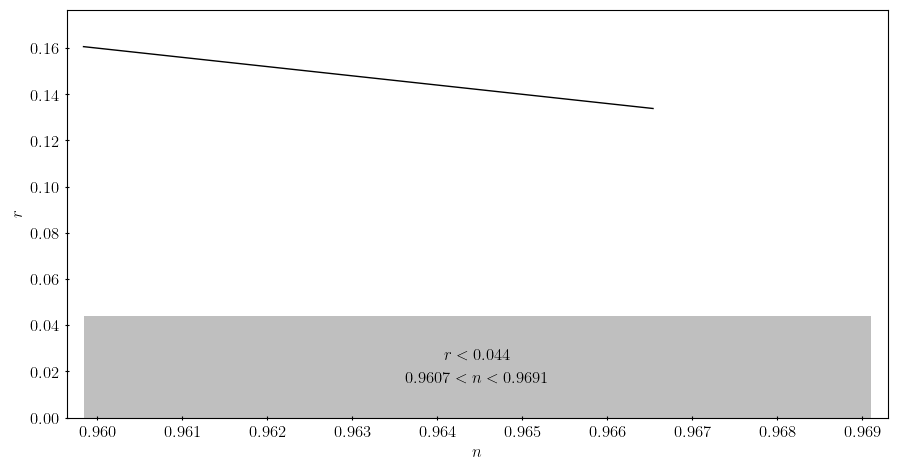
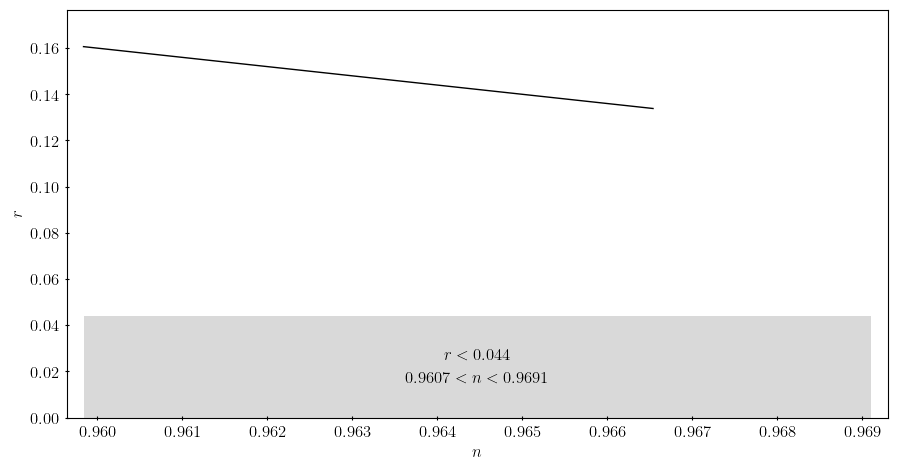
Closing in

Changed region(s): [[0.0935, 0.6553, 0.9978, 0.8936]]

diff --git a/project-3/inflation.py b/project-3/inflation.py
@@ -47,7 +47,13 @@ class InflationModel:
 		self.pot_diff = pot_diff
 
 	def double_time_derivative_scalar_field(self, psi, dpsi, h):
+		'''
+		The EoM for the scalar field, solved for d^2(psi)/dtau^2.
 
+		:param psi:		Scalar field, float or array
+		:param dpsi:	Derivative of scalar field, float or array
+		:param h:		Hubble parameter, float or array
+		'''
 		dv = self.pot_diff(psi, self.psi_i)
 
 		return - 3 * h * dpsi - dv
@@ -214,7 +220,10 @@ class InflationModel:
 
 	def set_epsilon_parameter(self, epsilon, print_tau_end=False):
 		'''
-		Set the function for calculating the SRA parameter epsilon.
+		Set the function for calculating the SRA
+		parameter epsilon. This will also set the
+		end of inflation from when epsilon <= 1
+		for the last time.
 
 		:param epsilon:			Epsilon function, callable
 		:param print_tau_end:	boolean, True/False
@@ -370,6 +379,8 @@ class InflationModel:
 		Plot the tensor-to-scalar ration r as function of
 		the scalar spectral index n. Also, the upper limit
 		for r of 0.044 is included as a shaded region in the plot.
+		For the Starobinsky model, the approximations can also 
+		be included in the plots to compare to the analytical results.
 
 		:param include_approx: boolean, True/False
 		'''
@@ -435,7 +446,7 @@ class InflationModel:
 
 				save_name += 'with_approx_'
 
-		ax.fill_between(x, r_max, alpha=0.25)
+		ax.fill_between(x, r_max, alpha=0.15)
 		ax.text(x_text, 0.025, r'$r<0.044$', ha='center')
 		ax.text(x_text, 0.015, r'$0.9607<n<0.9691$', ha='center')
 		ax.set_xlabel(r'$n$')

diff --git a/project-3/inflation_models.py b/project-3/inflation_models.py
@@ -91,7 +91,7 @@ def staro_eta(psi):
 
 	return eta
 
-
+# Initial field value and the time when inflation ends for the phi2-model
 phi2_psi_i = 8.9251
 phi2_tau_end = 4 * np.pi * phi2_psi_i**2 - 2 * np.sqrt(np.pi) / phi2_psi_i
 
@@ -107,6 +107,7 @@ phi2.pressure_energy_density_ratio()
 phi2.SRA_params_remaining_e_folds()
 phi2.plot_tensor_to_scalar_ratio()
 
+# Initial field value and the time when inflation ends for the Starobinsky model
 staro_psi_i = 2 
 staro_tau_end = 2694.91
 
